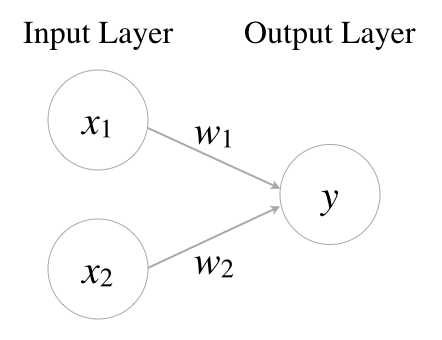
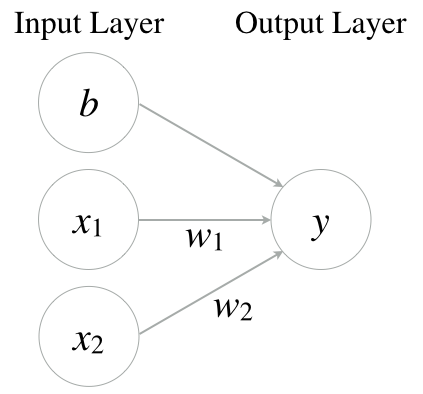
no message

diff --git a/_posts/2017-01-21-perceptron.md b/_posts/2017-01-21-perceptron.md
@@ -12,7 +12,7 @@ The perceptron is an algorithm that signals information from an input layer to a
 
  ![perceptron]({{site.github.url}}/images/posts/perceptron.png)
 
-$$ x_1, x_2 $$ are input signals, $$ y $$ is an output signal, and $$ w_1, w_2 $$ are weights. Signals are also called neurons or nodes. They output 1, only if the sum of inputs is over thresholds. In this case, the function is represented as follows:
+$$ x_1, x_2 $$ are input signals, $$ y $$ is an output signal,  $$ b $$ is a bias, and $$ w_1, w_2 $$ are weights. Signals are also called neurons or nodes. They output 1, only if the sum of inputs is over thresholds. In this case, the function is represented as follows:
 
 $$
 \begin{eqnarray*}
@@ -25,7 +25,7 @@ $$
 \end{eqnarray*}
 $$
 
-Here, $$ b $$ is a bias. You can create a logic gate with this function. If $$ b=-1.5 $$, $$ w_1=1 $$, and $$  w_2=1 $$, it will be the AND gate. This is the truth table for AND, OR, and NAND. Check the values ($$ b, w_1, w_2 $$) for the OR and NAND gates by yourself!
+You can create a logic gate with this function. If $$ b=-1.5 $$, $$ w_1=1 $$, and $$  w_2=1 $$, it will be the AND gate. This is the truth table for AND, OR, and NAND. Check the values ($$ b, w_1, w_2 $$) for the OR and NAND gates by yourself!
 
 |AND|OR|NAND|
 |:--:|:--:|:--:|
